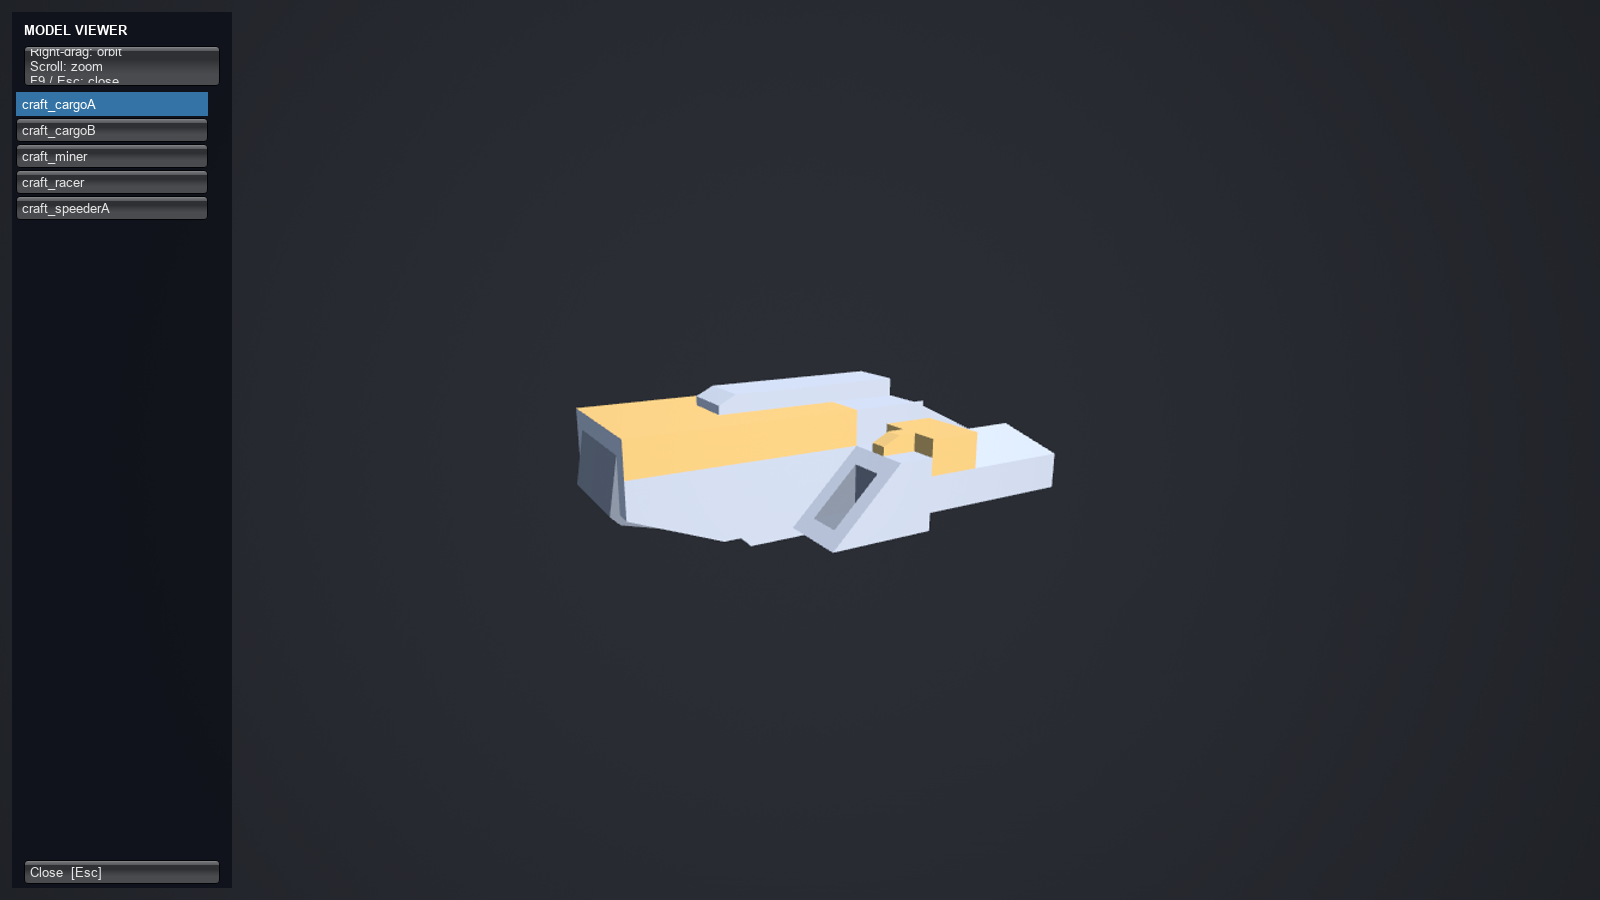
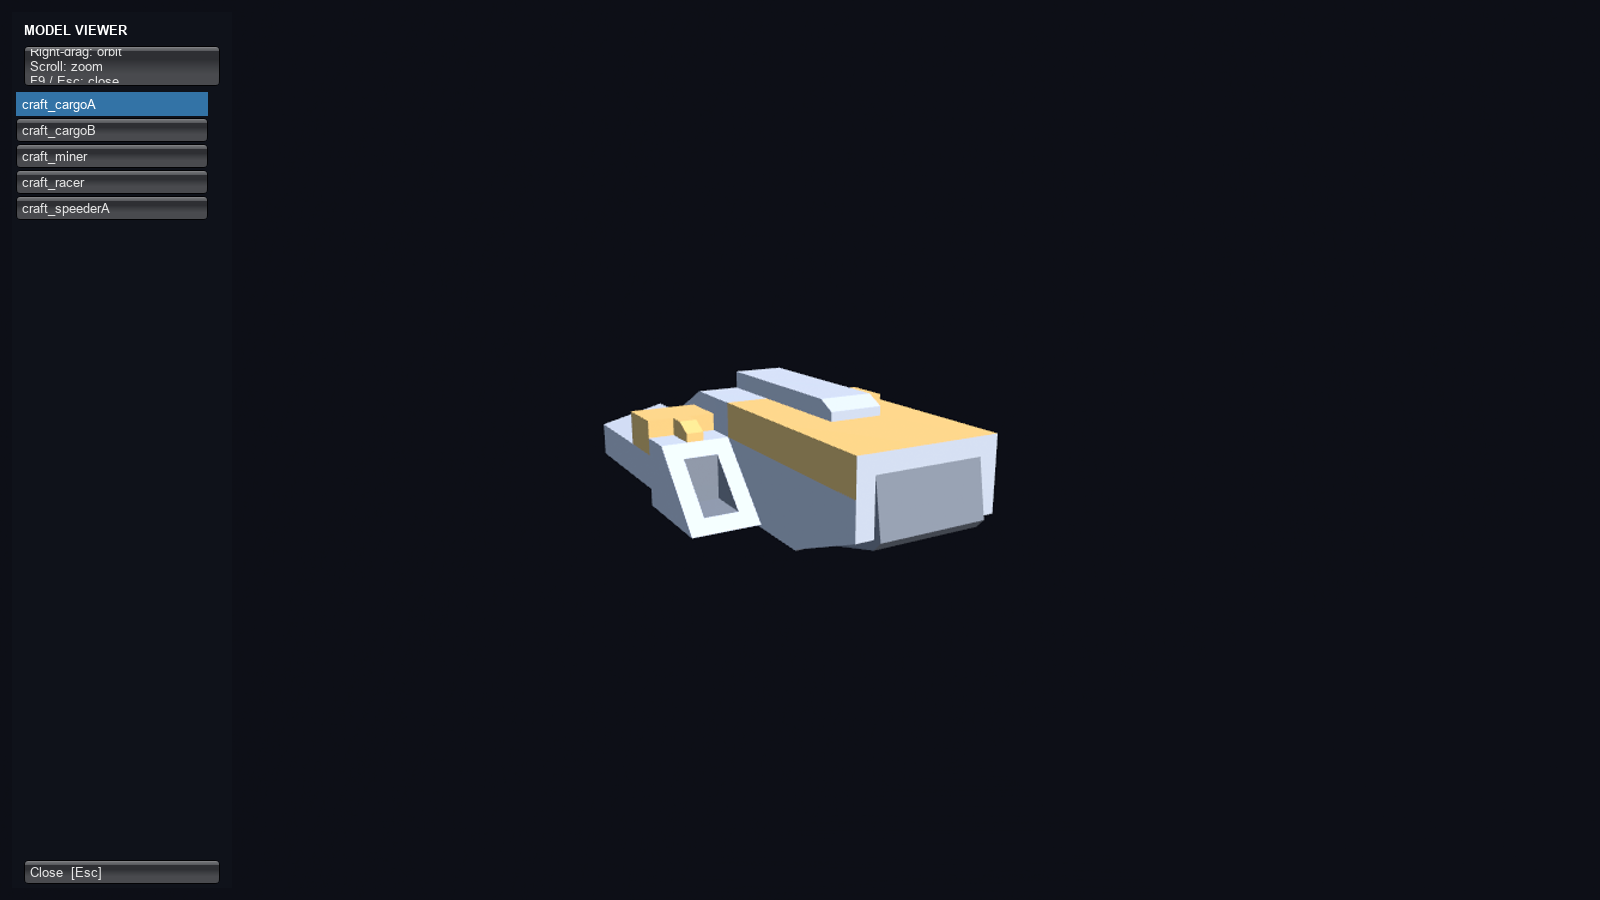
The camera's clear colour as the original's on both tracks, found by the model-viewer reference shots: Unreal's default 0.4 vignette is off in both render backends' look (the original's URP volume has Vignette intensity 0; it darkened every edge), and M_Sky's backdrop texel is the clear colour itsel
Claude-Session: https://claude.ai/code/session_01CbRxCK4n9MpME7Nwr7B1wV

diff --git a/CSharp/Script/ManagedUnrealSpaceGodCSharp/UnityCompat/UnityBridge.cs b/CSharp/Script/ManagedUnrealSpaceGodCSharp/UnityCompat/UnityBridge.cs
@@ -285,12 +285,14 @@ namespace UnityEngine
                 {
                     shown = (c, captureCamera != null);
                     var t = new Texture2D(1, 1) { name = "Backdrop" };
-                    // Measured (US-T40): M_Sky's texel does not reach the screen as Unity's clear colour does (a 13/15/23
-                    // texel showed as 1/1/2 on screen and 1/1/1 in a capture; 63 as 37 and 22): the screen value is
-                    // close to a * decoded^g. The texel is chosen so the screen shows Unity's value (its gamma colour).
+                    // The texel is chosen so the screen shows Unity's value (its gamma colour). On screen, under the
+                    // render backend's look (manual exposure cancelled by SG_Expose, no tone curve, no vignette), M_Sky
+                    // draws its texel as it is (US-T57; the transfer US-T40 measured, a * decoded^g with a 10.57, g 1.432,
+                    // was Unreal's filmic curve before US-T45 bound the look, and lifted the clear colour ~3x since). A
+                    // capture still goes through the measured transfer (a 13/15/23 texel showed as 1/1/1; 63 as 22).
                     bool capture = captureCamera != null;
-                    float a = capture ? 3.36f : 10.57f, g = capture ? 1.224f : 1.432f;
-                    float Texel(float v) => Encode(Mathf.Pow(Mathf.Max(v, 0f) / a, 1f / g));
+                    const float a = 3.36f, g = 1.224f;
+                    float Texel(float v) => capture ? Encode(Mathf.Pow(Mathf.Max(v, 0f) / a, 1f / g)) : Mathf.Max(v, 0f);
                     t.SetPixel(0, 0, new Color(Texel(c.r), Texel(c.g), Texel(c.b), 1));
                     t.Apply();
                     material!.SetTexture("_MainTex", t);

diff --git a/Cpp/Source/UnrealSpaceGod/UnityCompat/UnityScene.cpp b/Cpp/Source/UnrealSpaceGod/UnityCompat/UnityScene.cpp
@@ -670,11 +670,10 @@ namespace SpaceGod::UnityCompat
 				if (shown.r != c.r || shown.g != c.g || shown.b != c.b)
 				{
 					shown = c;
-					// M_Sky's texel does not reach the screen as Unity's clear colour does: measured on this track
-					// (docs/images/cpp-fidelity-model-viewer.png), the screen's linear value is 0.66 of the texel's (the
-					// C# track's camera, set up differently, measured a * decoded^g, US-T40). The texel is chosen for
-					// the screen to show Unity's value (its gamma colour).
-					constexpr float gain = 0.66f;
+					// The texel is chosen for the screen to show Unity's value (its gamma colour). With the look's
+					// manual exposure (cancelled by SG_Expose), no tone curve and no vignette (US-T57), M_Sky reaches the
+					// screen as drawn: the gain is 1 (0.66 was measured under Unreal's default 0.4 vignette).
+					constexpr float gain = 1.0f;
 					auto texel = [](float value)
 					{
 						float v = Mathf::Max(value, 0.0f);

diff --git a/Cpp/Source/UnrealSpaceGod/Rendering/Pipeline/RenderBackend.cpp b/Cpp/Source/UnrealSpaceGod/Rendering/Pipeline/RenderBackend.cpp
@@ -227,6 +227,10 @@ namespace SpaceGod::Rendering
 		s.AutoExposureApplyPhysicalCameraExposure = false;
 		s.bOverride_ExpandGamut = true;
 		s.ExpandGamut = 0;
+		// The original's URP volume (DefaultVolumeProfile: Vignette intensity 0) has no vignette; Unreal's default is 0.4,
+		// which darkened every edge, the model viewer's flat clear colour most visibly (US-T57).
+		s.bOverride_VignetteIntensity = true;
+		s.VignetteIntensity = 0;
 
 		float gameEv = game.Enabled ? game.ExposureEv : 0.0f;
 		float contrast = (game.Enabled ? game.Contrast : 0.0f) + (stack ? static_cast<float>(look.Contrast) : 0.0f);

diff --git a/CSharp/Script/ManagedUnrealSpaceGodCSharp/Runtime/Rendering/RenderBackend.cs b/CSharp/Script/ManagedUnrealSpaceGodCSharp/Runtime/Rendering/RenderBackend.cs
@@ -275,6 +275,10 @@ namespace Unity.SpaceGod.Rendering
             s.ApplyPhysicalCameraExposure = false;
             s.Override_ExpandGamut = true;
             s.ExpandGamut = 0f;
+            // The original's URP volume (DefaultVolumeProfile: Vignette intensity 0) has no vignette; Unreal's default is 0.4,
+            // which darkened every edge, the model viewer's flat clear colour most visibly (US-T57).
+            s.Override_VignetteIntensity = true;
+            s.VignetteIntensity = 0f;
             s.Override_MotionBlurAmount = true;
             s.Amount = 0f;
 

diff --git a/docs/FAITHFULNESS.md b/docs/FAITHFULNESS.md
@@ -265,7 +265,7 @@ Sources: **CH** = ControlsHelp binding, **GM** = GameManual chapter, **US** = U.
 | Pause menu: Resume, Help, Save/Load, Settings > Display, Main Menu, Quit | CH, US-T276 | ✓R | ✓R | |
 | Text fields (profile and save names) | US-T327 | ✓R | ✓C | C++: Unity's TextEditor as the C# track's: caret, mouse and Shift selection, Home/End, Ctrl word moves and deletes, Ctrl+A/C/X/V on the system clipboard, the OS's key repeat; audit text.* (US-T52) |
 | Text clipped at scroll and clip edges | (IMGUI) | ✓C | ✓R | C#: drawn through a Slate overlay with clipping zones, glyphs cut at the edge; icons with Unity's mip chain (US-T54; shots: the clipped panels match the C++ shot, 22% → 0.04% of pixels) |
-| Unity default skin (ModelViewer, asteroid labels, default scrollbars and sliders) | (IMGUI) | ✓R | ✓R | Unity's own GameSkin, read from the original player (`tools/unity_extract.py`); model viewer panel 4.76% (C++) / 4.87% (C#) of pixels differing from the original player's, all text rasterisation (US-T57) |
+| Unity default skin (ModelViewer, asteroid labels, default scrollbars and sliders) | (IMGUI) | ✓R | ✓R | Unity's own GameSkin, read from the original player (`tools/unity_extract.py`); model viewer panel 1.76% (C++) / 1.86% (C#) of pixels differing from the original player's, all text rasterisation (US-T57) |
 
 ### Rendering features
 
@@ -276,7 +276,7 @@ Sources: **CH** = ControlsHelp binding, **GM** = GameManual chapter, **US** = U.
 | Kenney craft and procedural hulls, LOD, far icons (U.SPC-T376, T415) | US | ✓R | ✓R | views check |
 | Model viewer (F9 / `-modelviewer`) | US-T24, T111 | ✓R | ✓R | C++: the highest-depth camera draws the screen, only its culling mask's layer over its SolidColor backdrop, its own key light; Kenney models turned by the import's correction; audit viewer.*, `-Mode fidelity` ([cpp-fidelity-model-viewer.png](images/cpp-fidelity-model-viewer.png), next to the C# track's [csharp-fidelity-model-viewer.png](images/csharp-fidelity-model-viewer.png)): 0.33% of pixels more than 24 levels from the original player's (US-T53) |
 | Ship thumbnails (offscreen capture) | US-T24 | ✓C | ✓R | |
-| Lights, PBR for imported glTF | (URP) | ✓R | ✓R | Lights light only URP Lit (as under URP); the glTF hulls draw with M_Lit, URP 17's PBR; C# hull 2.05% of pixels from the original's (US-T57; C++: lit and shaded alike, turned as the original's since US-T53) |
+| Lights, PBR for imported glTF | (URP) | ✓R | ✓R | Lights light only URP Lit (as under URP); the glTF hulls draw with M_Lit, URP 17's PBR; the hull 2.11% (C++) / 2.10% (C#) of pixels from the original player's (US-T57) |
 | Scene tour (`-demo`) and capture (`-capture`) | US-T10, T15 | ✓R | ✓R | all 55 stops captured on both (`play.ps1 -Mode demo -Track Cpp` since US-T58, which counts the stops; the C++ runner now takes `-capturedir` as the C# one does). The C++ tour's first stop is shot while the engine is still compiling shaders ("Preparing Shaders"), so Earth is not yet drawn in it |
 
 ### Audio
@@ -318,14 +318,25 @@ model viewer shot (the same model, orbit and zoom), `tools/imgdiff.py` (any chan
 
 | Region | C# before | C# after | C++ after |
 |---|---|---|---|
-| hull (pixels the original draws off the backdrop) | 96.70% | 2.05% | 80.26% (seen from the other side before US-T53's import correction; after it 0.33% of the C++ frame's pixels differ by more than 24 levels) |
-| panel (box, label box, buttons, scroll view) | 8.05% | 4.87% | 4.76% |
-| whole frame | 4.64% | 64.96% | 67.85% |
+| whole frame | 4.64% | **0.37%** | **0.35%** |
+| hull (pixels the original draws off the backdrop) | 96.70% | 2.10% | 2.11% |
+| panel (box, label box, buttons, scroll view) | 8.05% | 1.86% | 1.76% |
 
-The hull's faces now match the original's within 1-2 levels (e.g. (100, 113, 134) → (99, 113, 133), (254, 215, 141) →
-(253, 215, 140)); before, M_Ship drew it near black. What is left in the panel is text rasterisation. The whole-frame
-figure is the camera's SolidColor backdrop, not US-T57: the uncommitted exposure work in the shared tree (US-T51/T55)
-lifts it from Unity's flat (13, 15, 23) to about (40, 43, 50) on both tracks (noted on US-T51).
+The hull's faces match the original's within 1-2 levels on both tracks (e.g. (100, 113, 134) → (99, 113, 133),
+(254, 215, 141) → (254, 216, 141)); before, M_Ship drew it near black. What is left is anti-aliased edges and text
+rasterisation.
+
+The clear colour (the backdrop): both tracks drew it lifted to about (40, 43, 50) with darker corners, where Unity's is a
+flat (13, 15, 23). Two causes, both fixed here: Unreal's default vignette (0.4; the original's URP volume,
+`DefaultVolumeProfile.asset`, has Vignette intensity 0), now 0 in both render backends' look; and the C# backdrop's
+texel transfer, measured in US-T40 under Unreal's filmic curve before US-T45 bound the look to the camera (a 3x lift
+since); on screen M_Sky now draws its texel as it is on both tracks (the C++ track's 0.66 gain had been measured under
+the vignette).
+
+The original player in `Builds/Windows` was built on 2026-10-24, before the skyboxes (U.SPC-T595, 2026-11-02): its game
+view shows the old black sky with point stars, where both tracks (ported from the current source) draw Sol's panorama.
+That is the build's age, not a divergence; the model viewer, its key light, the glTF import and the scenes' lighting
+have not changed since the build.
 
 | Original player | C# | C++ |
 |---|---|---|

diff --git a/docs/MIGRATION.md b/docs/MIGRATION.md
@@ -762,7 +762,9 @@ renderer on layer L those whose mask has L, as direction and `color.linear × in
 `Shaders/Lit.ush`) in their glTF base colour, metallic, smoothness = 1 − roughness and emission (`ShipModels.json` now
 carries them), lit by the viewer's key light and the scenes' own environment (ambient probe and skybox reflection, read
 from the original player). Proof against the original player (`-capture -modelviewer craft_cargoA`, 1600×900):
-see FAITHFULNESS.md "US-T57".
+see FAITHFULNESS.md "US-T57" (whole frame 0.37% C#, 0.35% C++). The same check found the camera's clear colour lifted on both
+tracks: Unreal's default vignette (0.4; the original's URP volume has 0) is now off in both looks, and the C# backdrop
+texel transfer (measured under the filmic curve before US-T45) is gone: on screen M_Sky draws its texel as it is.
 
 ## Co-op (US-T39, C# track; the C++ track mirrors it)
 
